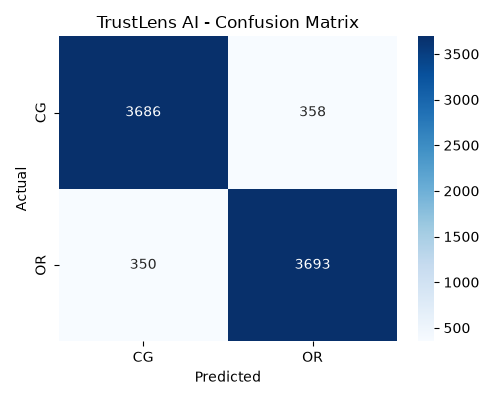
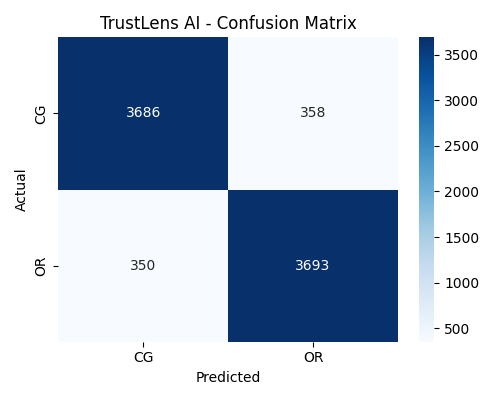
Added fake review explanation feature and UI improvements

diff --git a/web/css/style.css b/web/css/style.css
@@ -170,20 +170,19 @@ body {
   cursor: pointer;
 }
 .logo-mark {
-  width: 26px;
-  height: 26px;
-  background: var(--color-primary);
-  border-radius: 6px;
+  width: 36px;
+  height: 36px;
+  background: transparent;
+  border-radius: 8px;
   display: flex;
   align-items: center;
   justify-content: center;
 }
-.logo-dot {
-  width: 8px;
-  height: 8px;
-  background: #ffffff;
-  border-radius: 50%;
-  box-shadow: none;
+.logo-icon {
+  width: 22px;
+  height: 22px;
+  color: var(--color-primary);
+  stroke-width: 2.8;
 }
 .logo-highlight {
   color: var(--color-primary);
@@ -662,14 +661,28 @@ body.light-theme .history-item-confidence {
 .galaxy-ring {
   position: absolute;
   top: 50%; left: 50%;
-  border: 1px solid var(--border-color);
+  border: 1px solid color-mix(in srgb, var(--color-primary) 35%, var(--border-color));
   border-radius: 50%;
   transform: translate(-50%, -50%);
+  opacity: 0.92;
+  box-shadow: 0 0 12px color-mix(in srgb, var(--color-primary) 22%, transparent);
+  animation: galaxy-ring-glow 5.5s ease-in-out infinite;
 }
 .galaxy-ring.ring-1 { width: 32%; height: 32%; }
 .galaxy-ring.ring-2 { width: 54%; height: 54%; }
 .galaxy-ring.ring-3 { width: 76%; height: 76%; }
 .galaxy-ring.ring-4 { width: 98%; height: 98%; }
+
+@keyframes galaxy-ring-glow {
+  0%, 100% {
+    opacity: 0.9;
+    box-shadow: 0 0 8px color-mix(in srgb, var(--color-primary) 20%, transparent);
+  }
+  50% {
+    opacity: 1;
+    box-shadow: 0 0 18px color-mix(in srgb, var(--color-primary) 45%, transparent);
+  }
+}
 
 .galaxy-core {
   position: relative;

diff --git a/web/js/app.js b/web/js/app.js
@@ -826,6 +826,20 @@ document.addEventListener('DOMContentLoaded', () => {
   /* ----------------------------------------------------
      DASHBOARD REVEAL & RENDERING
      ---------------------------------------------------- */
+  function scrollToResultsSection() {
+    if (!resultSection) return;
+
+    const navbar = document.querySelector('.navbar');
+    const navbarHeight = navbar ? navbar.offsetHeight : 0;
+    const headingOffset = 96;
+    const targetY = resultSection.getBoundingClientRect().top + window.scrollY - navbarHeight - headingOffset;
+
+    window.scrollTo({
+      top: Math.max(targetY, 0),
+      behavior: 'smooth'
+    });
+  }
+
   function showDashboard(data) {
     // 1. Transition columns
     appMain.classList.add('dashboard-active');
@@ -835,12 +849,10 @@ document.addEventListener('DOMContentLoaded', () => {
     // Each new scan starts with Advanced Analysis collapsed
     collapseAdvancedAnalysis();
     
-    // Smooth scroll down to result on mobile
-    if (window.innerWidth < 1200) {
-      setTimeout(() => {
-        resultSection.scrollIntoView({ behavior: 'smooth' });
-      }, 500);
-    }
+    // Smooth scroll to the results dashboard so users land on the report
+    setTimeout(() => {
+      scrollToResultsSection();
+    }, 250);
 
     // 2. Render Verdict Card
     const isFake = data.verdict === 'Fake Review';

diff --git a/web/index.html b/web/index.html
@@ -71,8 +71,8 @@
           <i data-lucide="history"></i>
         </button>
         <div class="logo" id="navLogoBtn" title="Back to Home">
-          <div class="logo-mark">
-            <span class="logo-dot"></span>
+          <div class="logo-mark" aria-hidden="true">
+            <i data-lucide="shield-check" class="logo-icon"></i>
           </div>
           <span class="logo-text">TrustLens<span class="logo-highlight">AI</span></span>
         </div>